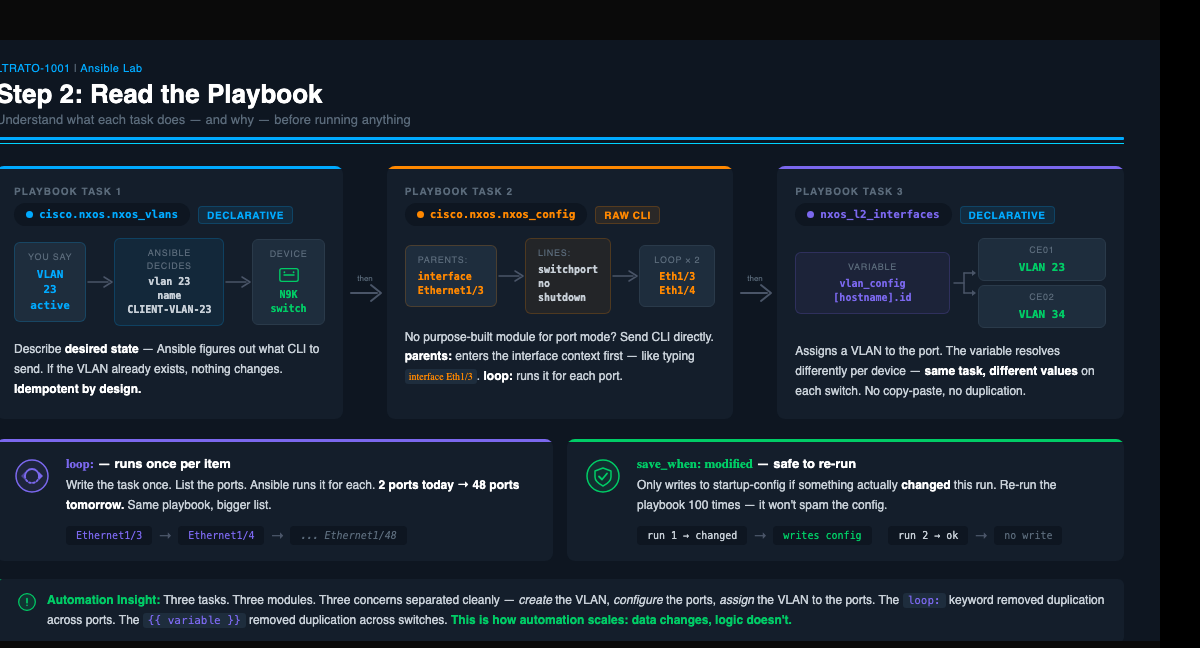
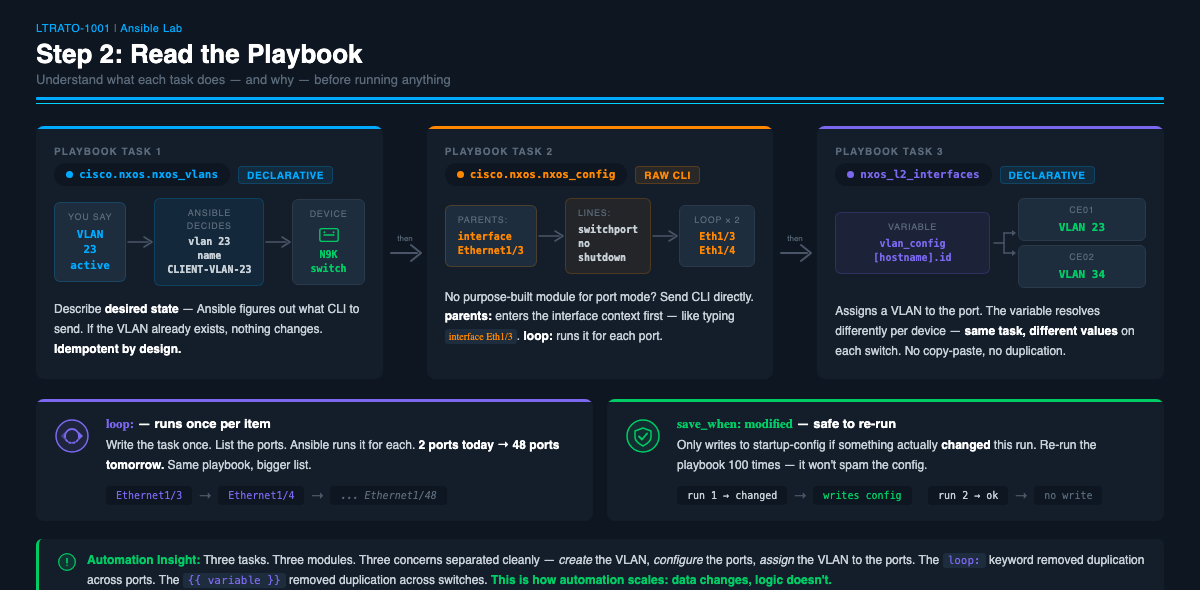
Fix Step 2 slide: remove black border, clean 1200x590 PNG export

Changed region(s): [[0.0, 0.0, 1.0, 1.0], [0.555, 0.8237, 0.8942, 0.8542], [0.2775, 0.8237, 0.37, 0.8542]]

diff --git a/slides/task1-step2-read-playbook.html b/slides/task1-step2-read-playbook.html
@@ -10,11 +10,10 @@
   * { box-sizing: border-box; margin: 0; padding: 0; }
 
   body {
-    background: #0a0a0a;
-    display: flex;
-    justify-content: center;
-    align-items: flex-start;
-    padding: 40px 0;
+    background: #0e1621;
+    display: block;
+    margin: 0;
+    padding: 0;
     font-family: 'Inter', sans-serif;
   }
 
